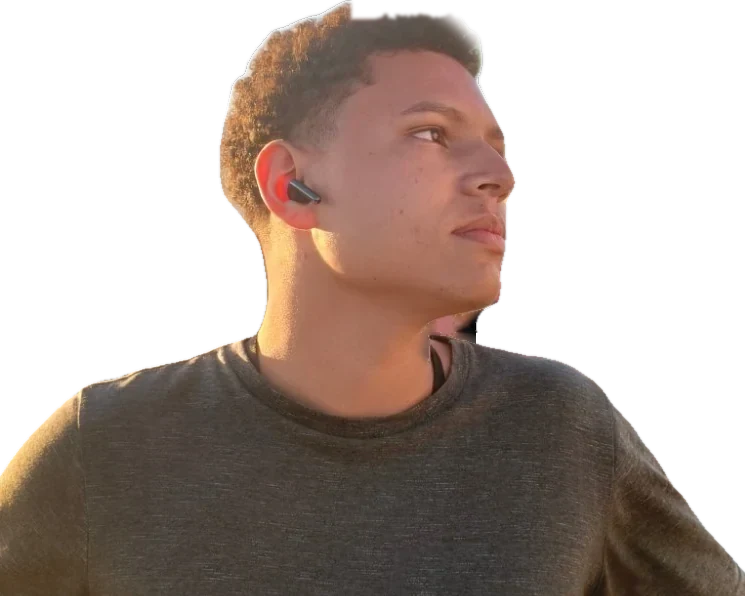
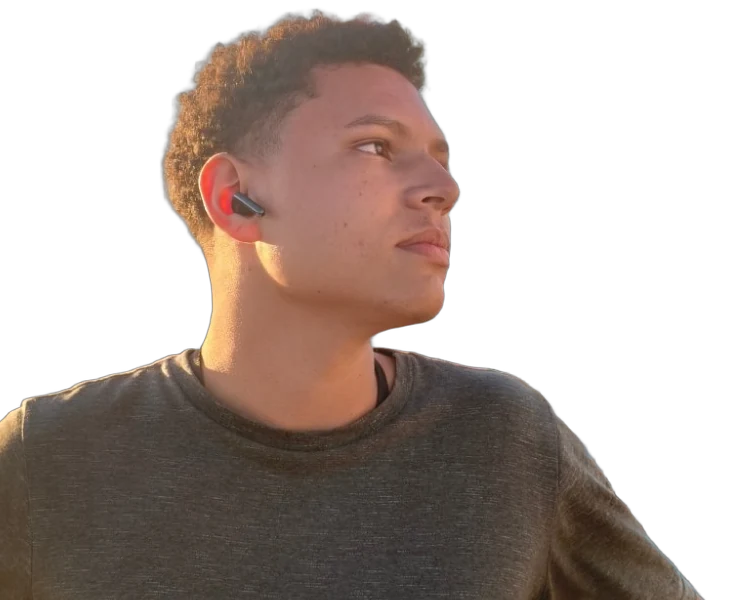
Recorta a foto com modelo melhor, cabelo completo

diff --git a/index.html b/index.html
@@ -352,7 +352,7 @@
     </div>
     <h1 class="hero-title">
       <span class="sr">Andrey Violante</span>
-      <span class="line l1" aria-hidden="true"><span id="t1">Andrey <img class="hero-photo" id="photo" src="assets/andrey.webp" alt="" width="745" height="596"></span></span>
+      <span class="line l1" aria-hidden="true"><span id="t1">Andrey <img class="hero-photo" id="photo" src="assets/andrey.webp" alt="" width="740" height="600"></span></span>
       <span class="line l2" aria-hidden="true"><span id="t2"><em>Violante</em></span></span>
     </h1>
     <div class="hero-foot">
